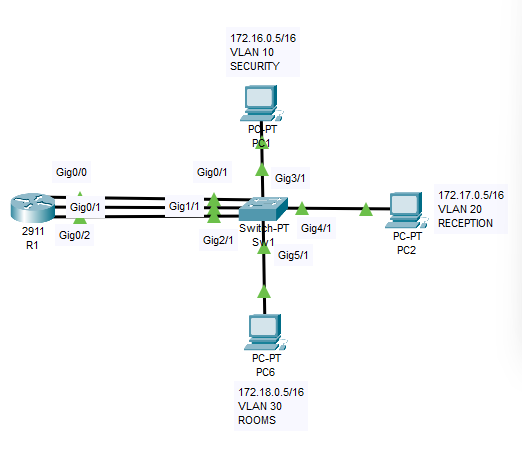
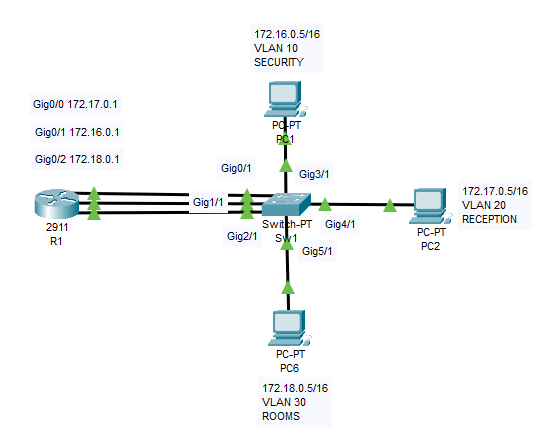
13-added-description-Inter-VLAN Routing

Changed region(s): [[0.0, 0.0584, 0.9808, 0.964], [0.0613, 0.2045, 0.2146, 0.3213]]

diff --git a/README.md b/README.md
@@ -33,23 +33,41 @@ Create a trunk connection between switches.
 Test the connection between workstations PC1 and PC5.  
 ![alt text](./assets/vlan5.png)  
 ## Inter-VLAN Routing - classic method
+In the classic method, the router requires configuration of interfaces, each of which belongs to one VLAN.  
 ![alt text](./assets/inter-vlan-routing-classic-0.png)  
+Creating VLAN 10, VLAN 20, VLAN 30 and naming them.  
 ![alt text](./assets/inter-vlan-routing-classic-1.png)  
+Assigning interfaces to VLANs and configuring interfaces to work in access mode.  
 ![alt text](./assets/inter-vlan-routing-classic-2.png)  
 ![alt text](./assets/inter-vlan-routing-classic-3.png)  
+Checking if interfaces are in the correct VLANs.  
 ![alt text](./assets/inter-vlan-routing-classic-4.png)  
+Assigning IP interests to router interfaces and starting them.  
 ![alt text](./assets/inter-vlan-routing-classic-5.png)  
+Displaying a list of interfaces on the router.  
 ![alt text](./assets/inter-vlan-routing-classic-6.png)  
+Checking the connection between workstation PC1 and PC2 and PC3. 
 ![alt text](./assets/inter-vlan-routing-classic-7.png)  
 ## Inter-VLAN Routing - router on a stick
+In the router on a stick method, only one wire is used for routing between VLANs in the router.  
 ![alt text](./assets/inter-vlan-routing-stick-0.png)  
+Using subinterface-based functionality. After creating a subinterface, indicate encapsulation and provide a VLAN id.  
 ![alt text](./assets/inter-vlan-routing-stick-1.png)  
+Enable the interface.  
 ![alt text](./assets/inter-vlan-routing-stick-2.png)  
+Displaying a list of interfaces on the router.  
 ![alt text](./assets/inter-vlan-routing-stick-3.png)  
+After creating VLAN 10, VLAN 20, VLAN 30 on the switch and giving them names, assign interfaces to VLANs and configure the interfaces to work in access mode.  
 ![alt text](./assets/inter-vlan-routing-stick-4.png)  
+Checking the connection between workstation PC1 and PC2 and PC3.  
 ![alt text](./assets/inter-vlan-routing-stick-5.png)  
 ## Inter-VLAN Routing - L3 switch
+Routing between VLANs using a Layer 3 switch performing routing within a single local area network.  
 ![alt text](./assets//inter-vlan-routing-L3-0.png)  
+Starting routing on the L3 switch. Creating VLAN 10, VLAN 20, VLAN 30. 
+Assigning interfaces to VLANs and configuring interfaces to work in access mode. Assigning IP addresses to interfaces and starting them.  
 ![alt text](./assets//inter-vlan-routing-L3-1.png)  
+Displaying the routing table.  
 ![alt text](./assets//inter-vlan-routing-L3-2.png)  
+Displaying the routing table.  
 ![alt text](./assets//inter-vlan-routing-L3-3.png)  
